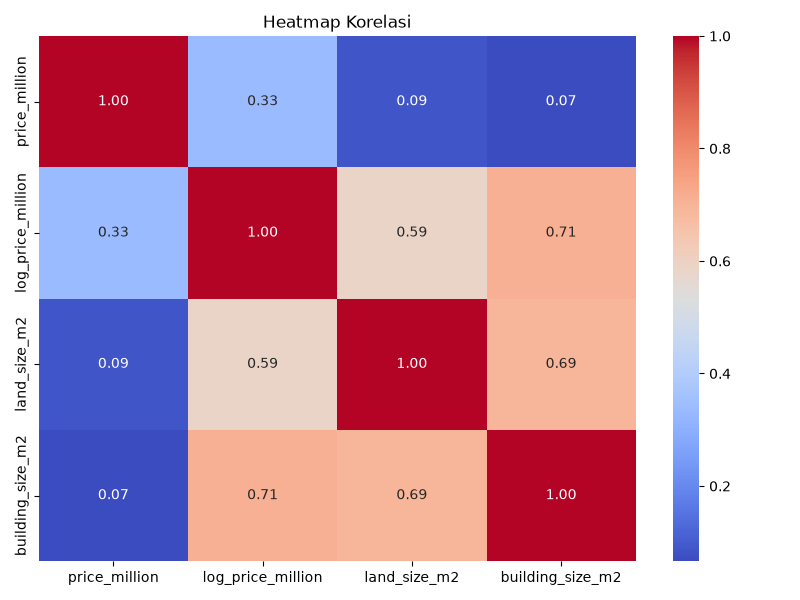
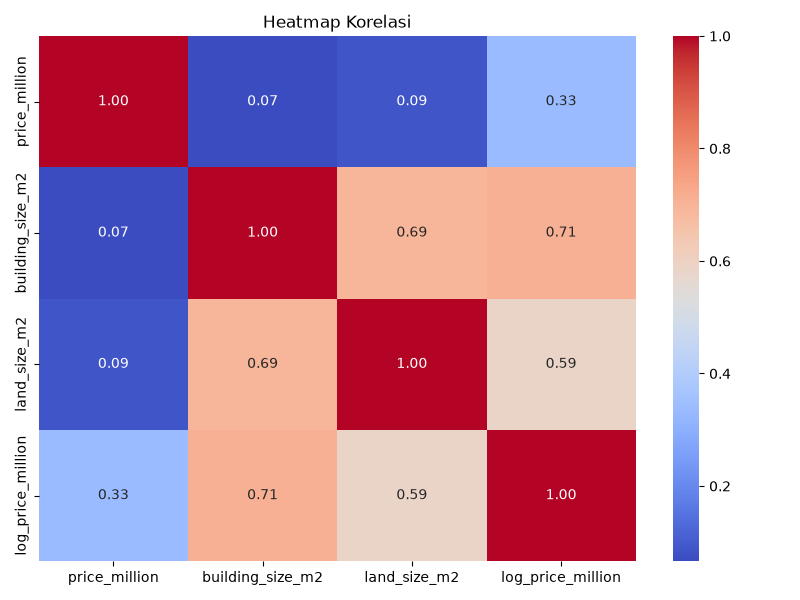
fix: output

diff --git a/main.py b/main.py
@@ -13,7 +13,7 @@ def main():
         f.write("=== HASIL ANALISIS REGRESI ===\n\n")
         
         # 1. Korelasi
-        corr = df[['price_million', 'log_price_million', 'land_size_m2', 'building_size_m2']].corr()
+        corr = df[['price_million', 'building_size_m2', 'land_size_m2', 'log_price_million']].corr()
         f.write("1. Matriks Korelasi:\n")
         f.write(corr.to_string() + "\n\n")
         